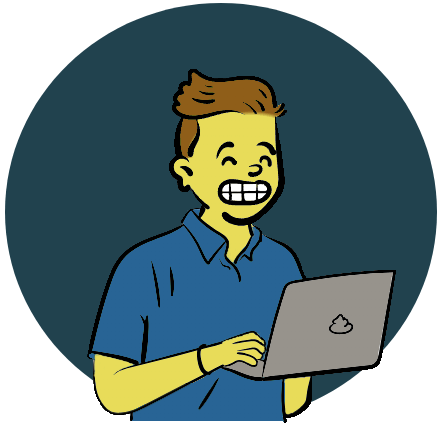
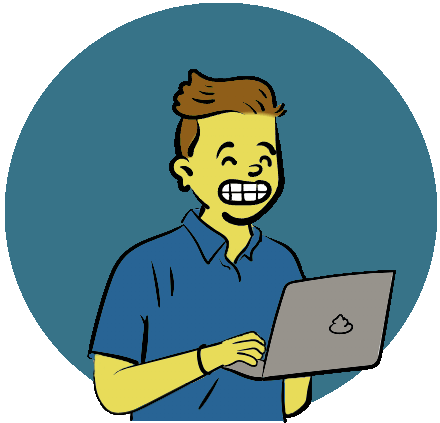
create theme context and added dark styles in components

diff --git a/components/intro.tsx b/components/intro.tsx
@@ -1,14 +1,15 @@
 "use client";
 import Image from "next/image";
-import React, { useEffect } from "react";
+import React, { useEffect, useState } from "react";
 import { motion } from "framer-motion";
 import { TypeAnimation } from "react-type-animation";
-import { BsArrowRight } from "react-icons/bs";
+import { BsArrowRight, BsLinkedin } from "react-icons/bs";
 import Link from "next/link";
 import { HiDownload } from "react-icons/hi";
 import { useActiveSectionContext } from "@/context/active-section-context";
 import { useInView } from "react-intersection-observer";
 import { useSectionInView } from "@/lib/hooks";
+import { FaGithubSquare } from "react-icons/fa";
 
 export default function Intro() {
   const { setlastClickTime, setActiveSection } = useActiveSectionContext();
@@ -68,7 +69,7 @@ export default function Intro() {
         <div className="flex gap-1 sm:gap-3 lg:gap-4  items-center text-center sm:max-w-[28rem] lg:max-w-[30rem]">
           <Link
             href="#contact"
-            className="flex items-center justify-center gap-2 p-2 w-30 sm:w-36 lg:w-40 bg-[#21414d] rounded-full text-xs sm:text-sm lg:text-lg text-white hover:scale-105 transition"
+            className="flex items-center justify-center gap-2 p-2 py-3 w-30 sm:w-36 lg:w-40 bg-[#21414d]/80 rounded-full text-xs sm:text-sm lg:text-lg text-white hover:scale-105 transition dark:bg-[#377388]"
             onClick={() => {
               setlastClickTime(Date.now());
               setActiveSection("Contact");
@@ -79,27 +80,23 @@ export default function Intro() {
           <a
             href="/ferclemens-cv.pdf"
             download
-            className="flex items-center justify-center gap-2 p-2 w-30 sm:w-36 lg:w-40 bg-gray-500 rounded-full text-xs sm:text-sm lg:text-lg text-white hover:scale-105 transition"
+            className="flex items-center justify-center gap-2 p-2 py-3 w-30 sm:w-36 lg:w-40 bg-gray-500/50 rounded-full text-xs sm:text-sm lg:text-lg text-white hover:scale-105 transition dark:bg-white/10"
           >
             Dowload CV <HiDownload className="" />
           </a>
-          <a href="https://www.linkedin.com/in/foclemens/" target="_blank">
-            <Image
-              src="/linkedin-logo.webp"
-              alt="LinkedIn logo"
-              width={30}
-              height={30}
-              className="hover:scale-110 transition"
-            />
+          <a
+            className="bg-white/60 p-2 text-gray-700/60 hover:text-gray-950 flex items-center text-[1.35rem] rounded-full focus:scale-[1.15] hover:scale-[1.15] active:scale-105 transition cursor-pointer dark:bg-white/10 dark:text-white/60"
+            href="https://www.linkedin.com/in/foclemens/"
+            target="_blank"
+          >
+            <BsLinkedin />
           </a>
-          <a href="https://github.com/Ferclemens" target="_blank">
-            <Image
-              src="/github-mark.svg"
-              alt="GitHub logo"
-              width={32}
-              height={32}
-              className="hover:scale-125 transition"
-            />
+          <a
+            className="bg-white/60 p-2 text-gray-700/60 flex items-center text-[1.5rem] rounded-full focus:scale-[1.15] hover:scale-[1.15] hover:text-gray-950 active:scale-105 transition cursor-pointer borderBlack dark:bg-white/10 dark:text-white/60"
+            href="https://github.com/Ferclemens"
+            target="_blank"
+          >
+            <FaGithubSquare />
           </a>
         </div>
       </motion.div>

diff --git a/context/theme-context.tsx b/context/theme-context.tsx
@@ -1,0 +1,62 @@
+"use client";
+import { error } from "console";
+import React, { createContext, useContext, useEffect, useState } from "react";
+
+type Theme = "light" | "dark";
+type ThemeContextProviderProps = {
+  children: React.ReactNode;
+};
+type ThemeContextTypes = {
+  theme: Theme;
+  toggleTheme: () => void;
+};
+
+const ThemeContext = createContext<ThemeContextTypes | null>(null);
+
+export default function ThemeContextProvider({
+  children,
+}: ThemeContextProviderProps) {
+  const [theme, setTheme] = useState<Theme>("light");
+
+  const toggleTheme = () => {
+    if (theme === "light") {
+      setTheme("dark");
+      window.localStorage.setItem("theme", "dark");
+      document.documentElement.classList.add("dark");
+    } else {
+      setTheme("light");
+      window.localStorage.setItem("theme", "light");
+      document.documentElement.classList.remove("dark");
+    }
+  };
+  useEffect(() => {
+    const localTheme = window.localStorage.getItem("theme") as Theme | null;
+    if (localTheme) {
+      setTheme(localTheme);
+      if (localTheme === "dark") {
+        document.documentElement.classList.add("dark");
+      } else if (window.matchMedia("(prefers-color-scheme: dark)").matches) {
+        setTheme("dark");
+        document.documentElement.classList.add("dark");
+      }
+    }
+  }, []);
+  return (
+    <ThemeContext.Provider
+      value={{
+        theme,
+        toggleTheme,
+      }}
+    >
+      {children}
+    </ThemeContext.Provider>
+  );
+}
+
+export function useTheme() {
+  const themeContext = useContext(ThemeContext);
+  if (themeContext === null) {
+    throw new Error("useTheme must be used within a ThemeContextProvider");
+  }
+  return themeContext;
+}

diff --git a/components/experience.tsx b/components/experience.tsx
@@ -10,14 +10,16 @@ import { experiencesData } from "@/lib/data";
 import { useActiveSectionContext } from "@/context/active-section-context";
 import { useInView } from "react-intersection-observer";
 import { useSectionInView } from "@/lib/hooks";
+import { useTheme } from "@/context/theme-context";
 
 export default function Experience() {
   const { ref } = useSectionInView("Experience");
+  const { theme } = useTheme();
   return (
     <section
       ref={ref}
       id="experience"
-      className="scroll-mt-40 mx-7 my-32 sm:mx-10"
+      className="scroll-mt-40 mx-7 my-32 sm:mx-10 text-gray-750 dark:text-gray-200"
     >
       <SectionHeading>Experience</SectionHeading>
       <div>
@@ -27,7 +29,8 @@ export default function Experience() {
               <VerticalTimelineElement
                 visible={true}
                 contentStyle={{
-                  background: "#f3f4f6",
+                  background:
+                    theme === "light" ? "#f3f4f6" : "rgba(255, 255, 255, 0.15)",
                 }}
                 contentArrowStyle={{
                   borderRight: "0.6rem solid #21414d",
@@ -35,7 +38,8 @@ export default function Experience() {
                 date={data.date}
                 icon={data.icon}
                 iconStyle={{
-                  background: "#f3f4f6",
+                  background:
+                    theme === "light" ? "#f3f4f6" : "rgba(55, 73, 95)",
                 }}
               >
                 <h3>{data.title}</h3>

diff --git a/components/theme-btn.tsx b/components/theme-btn.tsx
@@ -1,30 +1,13 @@
 "use client";
+import { useTheme } from "@/context/theme-context";
 import React, { useEffect, useState } from "react";
 import { BsMoon, BsSun } from "react-icons/bs";
 
-type Theme = "light" | "dark";
-
 export default function ThemeBtn() {
-  const [theme, setTheme] = useState<Theme>("light");
-
-  const toggleTheme = () => {
-    if (theme === "light") {
-      setTheme("dark");
-      window.localStorage.setItem("theme", "dark");
-    } else {
-      setTheme("light");
-      window.localStorage.setItem("theme", "light");
-    }
-  };
-  useEffect(() => {
-    const localTheme = window.localStorage.getItem("theme") as Theme | null;
-    if (localTheme) {
-      setTheme(localTheme);
-    }
-  }, [theme]);
+  const { theme, toggleTheme } = useTheme();
   return (
     <button
-      className="fixed top-[94%] sm:top-[89%] left-[88%] bg-slate-50 p-2 rounded-full hover:scale-[1.15] transition dark:bg-gray-500"
+      className="fixed top-[94%] sm:top-[89%] left-[88%] bg-white/60 p-2 rounded-full hover:scale-[1.15] transition dark:bg-white/10"
       onClick={toggleTheme}
     >
       {theme === "light" ? <BsSun /> : <BsMoon />}

diff --git a/app/layout.tsx b/app/layout.tsx
@@ -6,6 +6,7 @@ import ActiveSectionContextProvider from "@/context/active-section-context";
 import toast, { Toaster } from "react-hot-toast";
 import Footer from "@/components/footer";
 import ThemeBtn from "@/components/theme-btn";
+import ThemeContextProvider from "@/context/theme-context";
 
 const inter = Inter({ subsets: ["latin"] });
 
@@ -26,12 +27,14 @@ export default function RootLayout({
       >
         <div className="bg-blue-500 fixed top-14 left-14 h-52 w-52 rounded-full blur-[10rem] z-[-1]"></div>
         <div className="bg-teal-400 fixed bottom-0 right-4 h-52 w-52 rounded-full blur-[10rem] z-[-1]"></div>
-        <ActiveSectionContextProvider>
-          <Header />
-          {children}
-          <Footer />
-          <Toaster position="bottom-right" />
-        </ActiveSectionContextProvider>
+        <ThemeContextProvider>
+          <ActiveSectionContextProvider>
+            <Header />
+            {children}
+            <Footer />
+            <Toaster position="bottom-right" />
+          </ActiveSectionContextProvider>
+        </ThemeContextProvider>
       </body>
     </html>
   );

diff --git a/components/header.tsx b/components/header.tsx
@@ -12,7 +12,7 @@ export default function Header() {
   return (
     <header className="z-[999] relative">
       <motion.div
-        className="fixed top-0 left-1/2 -translate-x-1/2 h-20 w-full rounded-none border border-white border-opacity-80 shadow-lg shadow-black/[0.05] backdrop-blur-sm bg-white sm:top-2 sm:h-14 sm:w-[39rem] sm:rounded-lg"
+        className="fixed top-0 left-1/2 -translate-x-1/2 h-20 w-full rounded-none border border-white border-opacity-80 shadow-lg shadow-black/[0.05] backdrop-blur-sm bg-white bg-opacity-85 sm:top-2 sm:h-14 sm:w-[39rem] sm:rounded-lg dark:bg-gray-800 dark:border-black/10 dark:bg-opacity-85"
         initial={{ y: -100, x: "-50%", opacity: 0 }}
         animate={{ y: 0, x: "-50%", opacity: 1 }}
       ></motion.div>

diff --git a/components/submit-btn.tsx b/components/submit-btn.tsx
@@ -6,7 +6,7 @@ export default function SubmitBtn() {
   const { pending } = useFormStatus();
   return (
     <button
-      className="h-12 w-full bg-[#21414d] hover:bg-[#32748c] active:scale-95 disabled:scale-100 disabled:bg-[#21414d] transition text-white rounded-lg flex justify-center items-center gap-4"
+      className="h-12 w-full bg-[#21414d] hover:bg-[#32748c] active:scale-95 disabled:scale-100 disabled:bg-[#21414d] transition text-white rounded-lg flex justify-center items-center gap-4 dark:bg-[#377388]"
       type="submit"
       disabled={pending}
     >

diff --git a/tailwind.config.ts b/tailwind.config.ts
@@ -16,5 +16,6 @@ const config: Config = {
     },
   },
   plugins: [],
+  darkMode: "class",
 };
 export default config;
